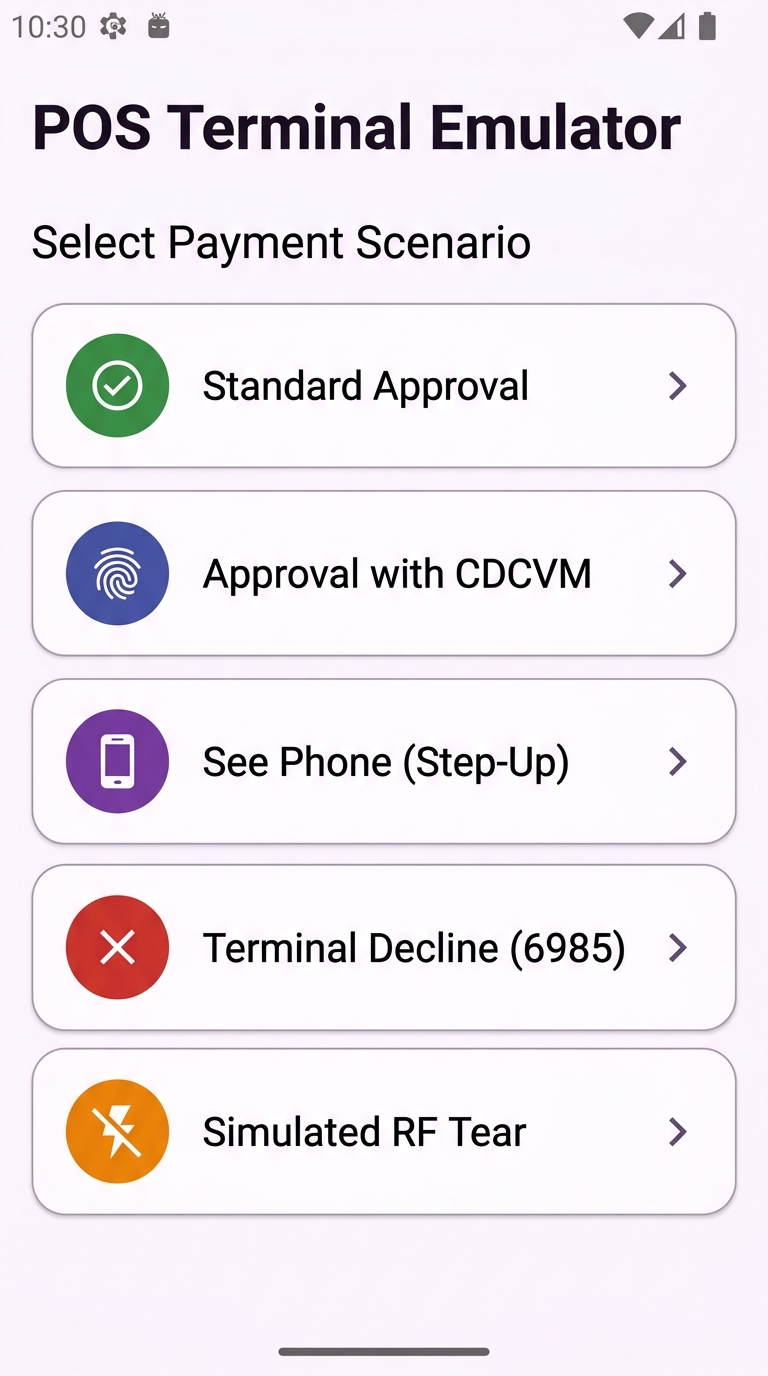
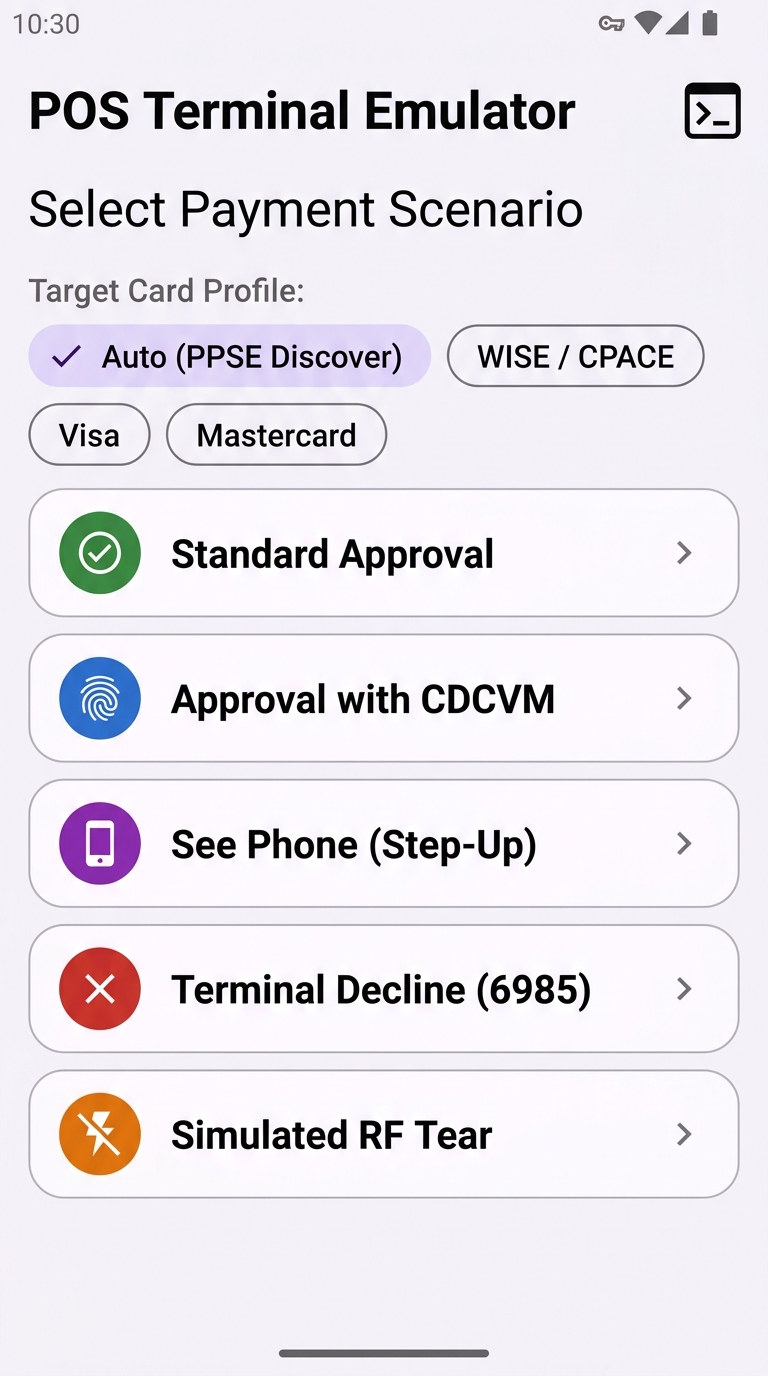
Update README, tests, and scenario selection screenshot with Scheme Profile FilterChips

diff --git a/app/src/test/java/com/sergitorralba/nfcemulator/domain/emv/EmvProtocolTest.kt b/app/src/test/java/com/sergitorralba/nfcemulator/domain/emv/EmvProtocolTest.kt
@@ -61,4 +61,28 @@ class EmvProtocolTest {
         assertEquals(0, (ttqNoCvm[0].toInt() and 0x02))
         assertNotEquals(0, (ttqWithCvm[0].toInt() and 0x02))
     }
+
+    @Test
+    fun testWiseCpaceAids() {
+        val cpaceDebitHex = HexUtil.toHex(EmvConstants.CPACE_DEBIT_AID)
+        val cpaceCreditHex = HexUtil.toHex(EmvConstants.CPACE_CREDIT_AID)
+        val wlaDomesticHex = HexUtil.toHex(EmvConstants.WLA_DOMESTIC_AID)
+
+        assertEquals("A0000008430101", cpaceDebitHex)
+        assertEquals("A0000008430201", cpaceCreditHex)
+        assertEquals("A0000008580101", wlaDomesticHex)
+    }
+
+    @Test
+    fun testTargetCardSchemeDefaults() {
+        val cpaceScheme = com.sergitorralba.nfcemulator.domain.model.TargetCardScheme.WISE_CPACE
+        val visaScheme = com.sergitorralba.nfcemulator.domain.model.TargetCardScheme.VISA
+        val mcScheme = com.sergitorralba.nfcemulator.domain.model.TargetCardScheme.MASTERCARD
+        val autoScheme = com.sergitorralba.nfcemulator.domain.model.TargetCardScheme.AUTO_PPSE
+
+        assertEquals("A0000008430101", cpaceScheme.defaultAidHex)
+        assertEquals("A0000000031010", visaScheme.defaultAidHex)
+        assertEquals("A0000000041010", mcScheme.defaultAidHex)
+        assertNull(autoScheme.defaultAidHex)
+    }
 }

diff --git a/README.md b/README.md
@@ -22,16 +22,16 @@ A developer tool and Android application designed to emulate an EMV Point-of-Sal
 - **Broad Scheme & Standard Support**:
   - **Major Schemes**: Visa (`A0000000031010`) & Mastercard (`A0000000041010`).
   - **Domestic & White Label**: IDEMIA WISE, White Label Alliance (WLA), and European CPACE (`A0000008430101`, `A0000008580101`) with dynamic PPSE auto-discovery and direct AID selection.
+  - **Card Profile Selector**: Toggle between **Auto (PPSE Discover)**, **WISE / CPACE**, **Visa**, and **Mastercard** at the top of the screen to execute *any* test scenario against that specific card technology.
 - **One-Tap Test Scenarios**:
   1. **Standard Approval**: Normal contactless payment with online cryptogram request (`9000`).
   2. **Approval with CDCVM**: Signals Terminal Transaction Qualifiers (TTQ) requiring Consumer Device Cardholder Verification Method (biometric unlock / device passcode).
-  3. **"See Phone" Step-Up**: Simulates terminal instructing the cardholder to verify their identity on their phone and re-tap.
+  3. **"See Phone" Step-Up**: Simulates terminal instructing the cardholder to verify their identity on their phone and re-tap (supported across all schemes, including WISE / CPACE!).
   4. **Terminal Decline (`6985`)**: Terminal aborts with Status Word `69 85` (Conditions of use not satisfied).
   5. **Cryptogram Decline (`AAC`)**: Generates an Application Authentication Cryptogram (AAC) decline.
   6. **Simulated RF Tear**: Prematurely drops the connection mid-flight (`isoDep.close()`) to test wallet resilience to tap-and-pull edge cases.
   7. **Terminal Stall / Timeout**: Holds the RF field open with an artificial delay to test wallet timeout handling.
-  8. **WISE / WLA (Direct AID)**: Directly selects CPACE / White Label Alliance domestic AID without requiring PPSE directory lookup.
-  9. **Unsupported Card**: Refuses the credential with `6A 82` (Application not found).
+  8. **Unsupported Card**: Refuses the credential with `6A 82` (Application not found).
 - **Fail-Safe Testing UX**:
   - Direct controls for **"Restart Tap Session"** and **"Cancel / Back to Menu"** so an unstable wallet build never locks up the testing device.
 - **Raw APDU Hex Inspector**:
